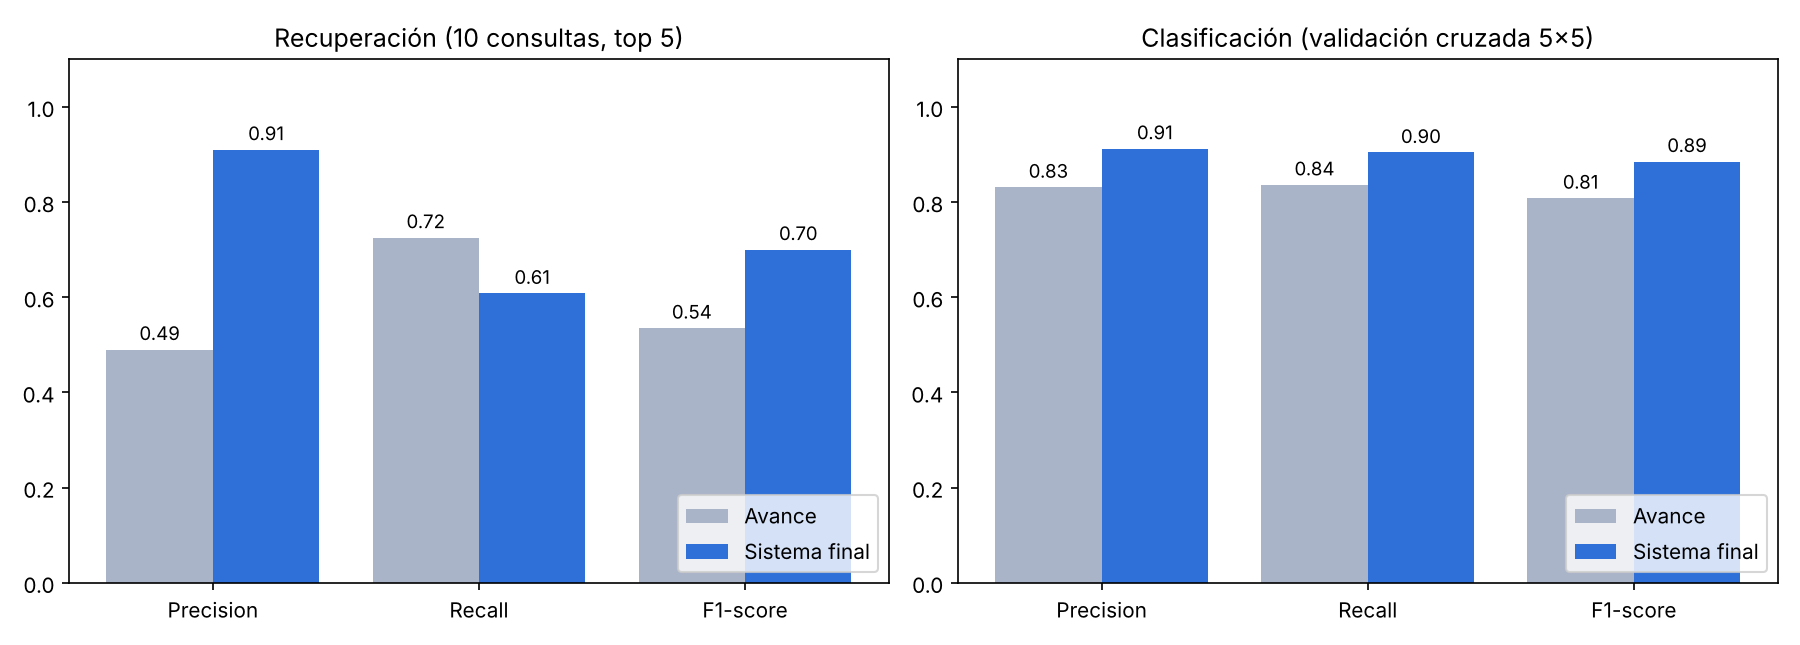
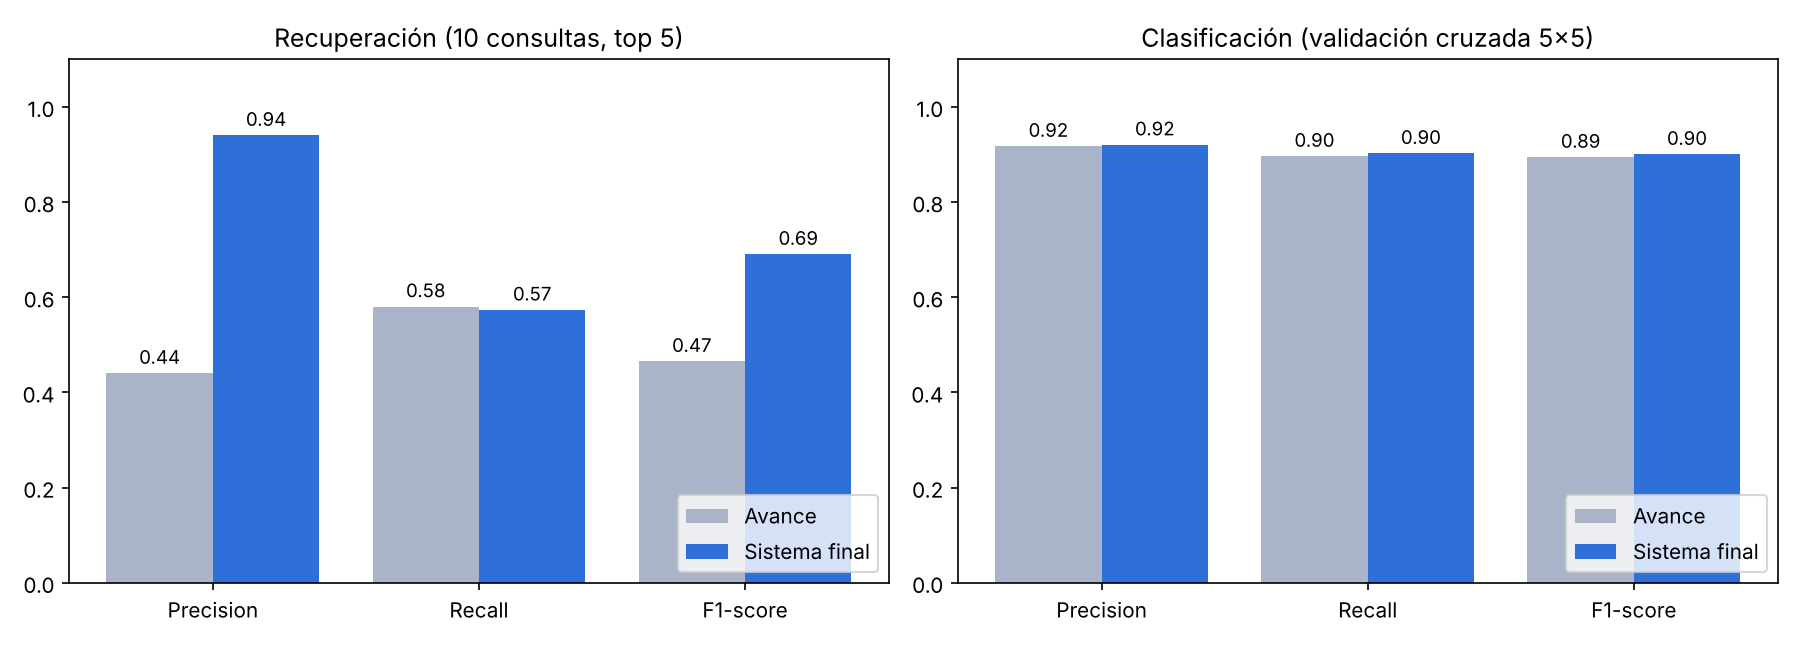
Resultados con 100 documentos

diff --git a/README.md b/README.md
@@ -7,7 +7,7 @@ Proyecto final de la materia **Sistemas y tecnologías de administración del co
 
 **App en línea:** _pega aquí el link de Streamlit Cloud_
 
-Neoris es una consultora de TI que nació en Monterrey (hoy EPAM NEORIS). Los 42 documentos son un escenario de ejemplo hecho para el proyecto, porque la empresa no publica sus documentos internos.
+Neoris es una consultora de TI que nació en Monterrey (hoy EPAM NEORIS). Los 100 documentos son un escenario de ejemplo hecho para el proyecto, porque la empresa no publica sus documentos internos.
 
 ## Qué hace el sistema
 
@@ -63,14 +63,14 @@ python src/evaluacion.py         # evaluación de la Actividad 4
 
 | Métrica | Avance | Sistema final |
 | --- | --- | --- |
-| Precision de búsqueda (10 consultas, top 5) | 0.49 | **0.91** |
-| Recall de búsqueda | 0.73 | 0.61 |
-| F1 de búsqueda | 0.54 | **0.70** |
-| Precision de clasificación (validación cruzada 5x5) | 0.83 | **0.91** |
-| Recall de clasificación | 0.84 | **0.90** |
-| Recomendaciones de la misma categoría | - | 69% |
+| Precision de búsqueda (10 consultas, top 5) | 0.44 | **0.94** |
+| Recall de búsqueda | 0.58 | 0.57 |
+| F1 de búsqueda | 0.47 | **0.69** |
+| Precision de clasificación (validación cruzada 5x5) | 0.92 | 0.92 |
+| Recall de clasificación | 0.90 | 0.90 |
+| Recomendaciones de la misma categoría | - | 63% |
 
-El corte de resultados (55% del mejor puntaje) se ajustó con `datos/consultas_validacion.json`; las consultas de prueba solo se usan para medir.
+Todo se midió con los 100 documentos. El corte de resultados (75% del mejor puntaje) se ajustó con `datos/consultas_validacion.json`; las consultas de prueba solo se usan para medir.
 
 ## Estructura
 
@@ -87,7 +87,7 @@ neoris-gestion-conocimiento/
 │   ├── utilidades.py          carga de documentos
 │   └── clasificador.py, busqueda_semantica.py, evaluacion.py   (fases anteriores)
 ├── datos/
-│   ├── documentos/            42 documentos en 5 categorías
+│   ├── documentos/            100 documentos en 5 categorías (20 por categoría)
 │   ├── nuevos/                5 documentos de prueba
 │   ├── consultas_prueba.json  10 consultas para medir
 │   └── consultas_validacion.json  15 consultas para ajustar el corte
